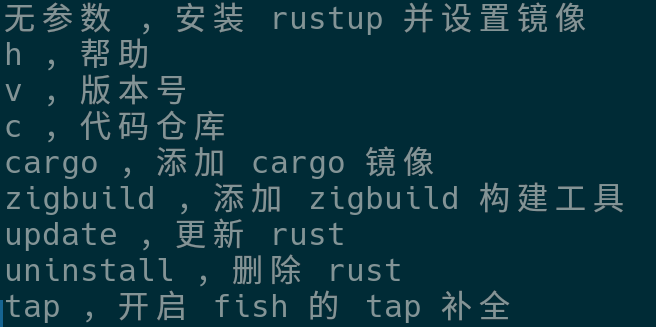
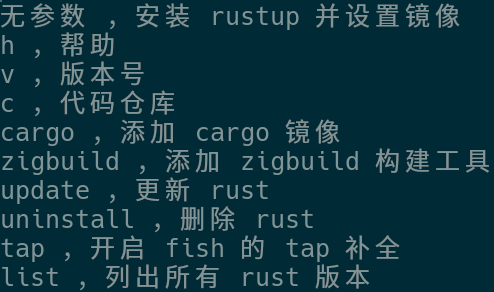
修复rustup镜像重复设置问题，新增list命令

diff --git a/func/src/repl_function.rs b/func/src/repl_function.rs
@@ -19,7 +19,7 @@ use std::env::{var};
 use std::path::Path;
 use std::process::{ Stdio };
 use tokio::fs::{OpenOptions};
-use tokio::io::{AsyncWriteExt};
+use tokio::io::{AsyncWriteExt, AsyncReadExt};
 use tokio::process::Command;
 
 /* 引入私有库 */
@@ -37,31 +37,49 @@ pub async fn run() -> Result<(), Box<dyn std::error::Error>> {
     /* 检测 rust 工具是否存在 */
     if let Ok(_) = Command::new("rustup").arg("--version").output().await { println!("rust 工具已存在"); return Ok(()); }else { println!("未安装rust,现在开始安装"); () }
 
-    /* 定义 shell 配置文件路径 */
-    let bash = res_path(".bashrc");
-    let fish = res_path(".config/fish/config.fish");
-    /* 合并 $HOME 路径和 bash fish 的配置文件路径为 PathBuf */
+    /* 定义 bash || fish 镜像关键部分 */
+    let bash_file = vec!["export RUSTUP_UPDATE_ROOT=https://mirrors.tuna.tsinghua.edu.cn/rustup/rustup","export RUSTUP_DIST_SERVER=https://mirrors.tuna.tsinghua.edu.cn/rustup"];
+    let fish_file = vec!["set -x RUSTUP_UPDATE_ROOT https://mirrors.tuna.tsinghua.edu.cn/rustup/rustup","set -x RUSTUP_DIST_SERVER https://mirrors.tuna.tsinghua.edu.cn/rustup"];
 
-    /* 定义 shell 镜像 */
-    let bash_https = "export RUSTUP_UPDATE_ROOT=https://mirrors.tuna.tsinghua.edu.cn/rustup/rustup\nexport RUSTUP_DIST_SERVER=https://mirrors.tuna.tsinghua.edu.cn/rustup";
-    let fish_https = "set -x RUSTUP_UPDATE_ROOT https://mirrors.tuna.tsinghua.edu.cn/rustup/rustup\nset -x RUSTUP_DIST_SERVER https://mirrors.tuna.tsinghua.edu.cn/rustup";
+    /* rustup 镜像存在性检测(bash) */
+    if let Err(_) = rustup_bool(".bash_profile",bash_file).await {
+        /* 定义 bash 配置文件路径 */
+        let bash = res_path(".bash_profile");
 
-    /* 根据 shell 添加镜像 */
-    if let Ok(_) = Command::new("bash").arg("--version").output().await { shell_https("bash",bash,bash_https).await? }else { println!("bash 不存在") };
-    if let Ok(_) = Command::new("fish").arg("--version").output().await { shell_https("fish",fish,fish_https).await? }else { println!("fish 不存在") }
+        /* 定义 bash rustup 镜像 */
+        let bash_https = "export RUSTUP_UPDATE_ROOT=https://mirrors.tuna.tsinghua.edu.cn/rustup/rustup\nexport RUSTUP_DIST_SERVER=https://mirrors.tuna.tsinghua.edu.cn/rustup";
 
+        /* 添加 bash rustup 镜像 */
+        if let Ok(_) = Command::new("bash").arg("--version").output().await { shell_https("bash",bash,bash_https).await? }else { println!("bash 不存在") };
+
+        /* 立刻激活镜像 */
+        if let Ok(_) = Command::new("bash").arg("-c").arg(r#"source $HOME/.bash_profile"#).output().await {}else { println!("bash rustup 镜像激活失败"); }
+    }else { println!("bash rustup 镜像已存在") }
+
+    /* rustup 镜像存在性检测(fish) */
+    if let Err(_) = rustup_bool(".config/fish/config.fish",fish_file).await {
+        /* 定义 fish 配置文件路径 */
+        let fish = res_path(".config/fish/config.fish");
+
+        /* 定义 fish rustup 镜像 */
+        let fish_https = "set -x RUSTUP_UPDATE_ROOT https://mirrors.tuna.tsinghua.edu.cn/rustup/rustup\nset -x RUSTUP_DIST_SERVER https://mirrors.tuna.tsinghua.edu.cn/rustup";
+
+        /* 根据 fish rustup 添加镜像 */
+        if let Ok(_) = Command::new("fish").arg("--version").output().await { shell_https("fish",fish,fish_https).await? }else { println!("fish 不存在") }
+
+        /* 立刻激活镜像 */
+        if let Ok(_) = Command::new("fish").arg("-c").arg(r#"source $HOME/.config/fish/config.fish"#).output().await {}else { println!("fish rustup 镜像激活失败"); }
+    }else { println!("fish rustup 镜像已存在") }
 
     /* 安装 rustup */
-    let mut cmd = Command::new("bash")
-        .arg("-c")
-        .arg(r#"curl --proto '=https' --tlsv1.2 -sSf https://sh.rustup.rs | sh"#)
+    let mut cmd = Command::new("bash").arg("-c").arg(r#"curl --proto '=https' --tlsv1.2 -sSf https://sh.rustup.rs | sh"#)
         .stdout(Stdio::inherit())/* 输出打印到终端 */
         .stderr(Stdio::inherit())/* 错误打印到终端 */
         .spawn()?;
 
     /* 堵塞等待安装完成 */
     let cmd = cmd.wait().await?;
-    if cmd.success() { println!("rust安装成功") }else { println!("rust 安装失败") }
+    if cmd.success() { println!("rust 安装成功 , 重启终端后才能使用 rustup rustc cargo 以及其他 rust 工具") }else { println!("rust 安装失败") }
 
     Ok(())
 }
@@ -91,8 +109,44 @@ async fn shell_https(name:&str, path:PathBuf, https:&str) -> Result<(), Box<dyn 
 
         /* 让镜像立刻生效 */
         let path = format!(r#"source {}"#, path.display());
-        if let Ok(_) = Command::new("bash").arg("-c").arg(&path).output().await { println!("{}镜像已生效",name); }else { println!("镜像生效失败") }
+        if let Ok(_) = Command::new(name).arg("-c").arg(&path).output().await { println!("{}镜像已生效",name); }else { println!("镜像生效失败") }
     };
 
     Ok(())
+}
+
+/* rustup 镜像存在性检测 */
+async fn rustup_bool(path:&str, col:Vec<&str>) -> Result<PathBuf, Box<dyn std::error::Error>> {
+    /* 定义 shell rustup 配置文件路径 */
+    let cargo_path = res_path(path);
+
+    /* 打开 shell rustup 配置文件 */
+    if let Ok(mut e) = OpenOptions::new().read(true).create(true).open(&cargo_path).await {
+
+        /* 读取 shell rustup 配置文件内容 */
+        let mut buf = String::new();
+        let _ = e.read_to_string(&mut buf).await;
+        /* buf 存放了 config.toml 配置文件内容 */
+
+        /* 代表存在性的变量 */
+        let mut all = true;
+        /* 默认完整存在 */
+
+        /* 遍历镜像关键部分 */
+        for i in col {
+            /* 判断 buf 是否完整包含 https 的成员切片  */
+            if !buf.contains(i) {
+                /* 不完整处理 */
+                all = false; break;
+                /* 将存在性变量改为 false 并退出遍历 */
+            }
+        }
+
+        /* 根据存在性变量执行对应的操作 */
+        if all { return Err("镜像已存在".into()) }
+        /* true 返回值 , false 返回错误 */
+    };
+
+    /* 返回 shell rustup 配置文件路径 */
+    Ok(cargo_path)
 }

diff --git a/cmd/src/function_mod_https.rs b/cmd/src/function_mod_https.rs
@@ -29,9 +29,6 @@ use tokio::process::Command;
 /* 代码仓库跳转 */
 pub async fn jump() -> Result<(), Box<dyn std::error::Error>> {
     /* 跳转代码仓库 */
-
-    /* linux 专属 */
-    #[cfg(target_os = "linux")]
     cmd(r#"xdg-open https://gitee.com/songjiaqicode/rust-installation"#,"web启动").await?;
     /* 这会调用 xdg-open(桌面通用web接口) 打开代码仓库 */
 
@@ -95,7 +92,6 @@ pub async fn update() -> Result<(), Box<dyn std::error::Error>> {
 /* 删除 uninstall */
 pub async fn uninstall() -> Result<(), Box<dyn std::error::Error>> {
     /* 删除 uninstall */
-    #[cfg(target_os = "linux")]
     cmd(r#"rustup self uninstall"#,"uninstall").await?;
 
     Ok(())
@@ -114,13 +110,25 @@ pub async fn shell_tap() -> Result<(), Box<dyn std::error::Error>> {
     let mut file = if let Ok(e) = file { println!("fish tap 文件创建成功"); e }else { println!("fish tap 文件创建失败"); std::process::exit(0) };
 
     /* 定义写入内容 */
-    let write = b"complete -c rust-installation -f -a 'h v c cargo zigbuild update uninstall tap'";
+    let write = b"complete -c rust-installation -f -a 'h v c cargo zigbuild update uninstall tap list'";
 
     /* 写入文件 */
     let _ = file.write_all(write).await?;
 
     /* 立刻激活 */
-    Command::new("bash").arg("-c").arg(r#"source $HOME/.config/fish/completions/rust-installation.fish"#).spawn()?;
+    Command::new("fish").arg("-c").arg(r#"source $HOME/.config/fish/completions/rust-installation.fish"#).spawn()?;
+
+    Ok(())
+}
+
+/* 列出所有 rust 版本 */
+pub async fn list() -> Result<(), Box<dyn std::error::Error>> {
+    /* 判断 rust 存在性 */
+    let res = Command::new("rustup").arg("--version").stdout(Stdio::null()).stderr(Stdio::null()).spawn();
+    if let Ok(_) = res {}else { println!("rust 不存在 , 执行 rust-installation 命令安装"); std::process::exit(0) };
+
+    /* 列出所有 rust 版本 */
+    cmd(r#"rustup show"#,"list").await?;
 
     Ok(())
 }
@@ -170,7 +178,6 @@ async fn cargo_bool() -> Result<PathBuf, Box<dyn std::error::Error>> {
         for i in https {
             /* 判断 buf 是否完整包含 https 的成员切片  */
             if !buf.contains(i) {
-
                 /* 不完整处理 */
                 all = false; break;
                 /* 将存在性变量改为 false 并退出遍历 */
@@ -179,7 +186,7 @@ async fn cargo_bool() -> Result<PathBuf, Box<dyn std::error::Error>> {
 
         /* 根据存在性变量执行对应的操作 */
         if all { return Err("镜像已存在".into()) }
-        /* true 返回直 , false 返回错误 */
+        /* true 返回值 , false 返回错误 */
     };
 
     /* 返回 .cargo 配置文件路径 */
@@ -197,7 +204,7 @@ async fn cmd(shell:&str, pr:&str) -> Result<(), Box<dyn std::error::Error>> {
 
     /* 堵塞等待安装完成 */
     let res_ins = ins.wait().await?;
-    if res_ins.success() { println!("{} 成功",pr) }else { println!("{} 失败",pr) }
+    if res_ins.success() { println!("\n{} 成功",pr) }else { println!("{} 失败",pr) }
 
     Ok(())
 }

diff --git a/cmd/src/repl_function.rs b/cmd/src/repl_function.rs
@@ -49,6 +49,7 @@ pub async fn run() -> Result<(), Box<dyn std::error::Error>>{
                 println!("update , 更新 rust");
                 println!("uninstall , 删除 rust");
                 println!("tap , 开启 fish 的 tap 补全");
+                println!("list , 列出所有 rust 版本");
 
                 /* 退出程序 */
                 std::process::exit(0)
@@ -58,7 +59,7 @@ pub async fn run() -> Result<(), Box<dyn std::error::Error>>{
             /* 版本号 */
             "v" => {
                 /* 打印版本号 */
-                println!("1.0.0");
+                println!("1.2.0");
 
                 /* 退出程序 */
                 std::process::exit(0)
@@ -125,6 +126,15 @@ pub async fn run() -> Result<(), Box<dyn std::error::Error>>{
             /* 开启 fish 的 tap 补全 */
             "tap" => {
                 let _ = function_mod_https::shell_tap().await;
+
+                /* 退出程序 */
+                std::process::exit(0)
+                /* 防止影响到 func 包中的模块 */
+            }
+
+            /* 列出所有 rust 版本 */
+            "list" => {
+                let _ = function_mod_https::list().await;
 
                 /* 退出程序 */
                 std::process::exit(0)

diff --git a/README.md b/README.md
@@ -16,8 +16,6 @@ ide: Rust Rover
 
 只支持linux
 
-rustup 镜像会重复设置
-
 早期版本,功能较少,后期会根据需求新增功能
 
 # 功能介绍
